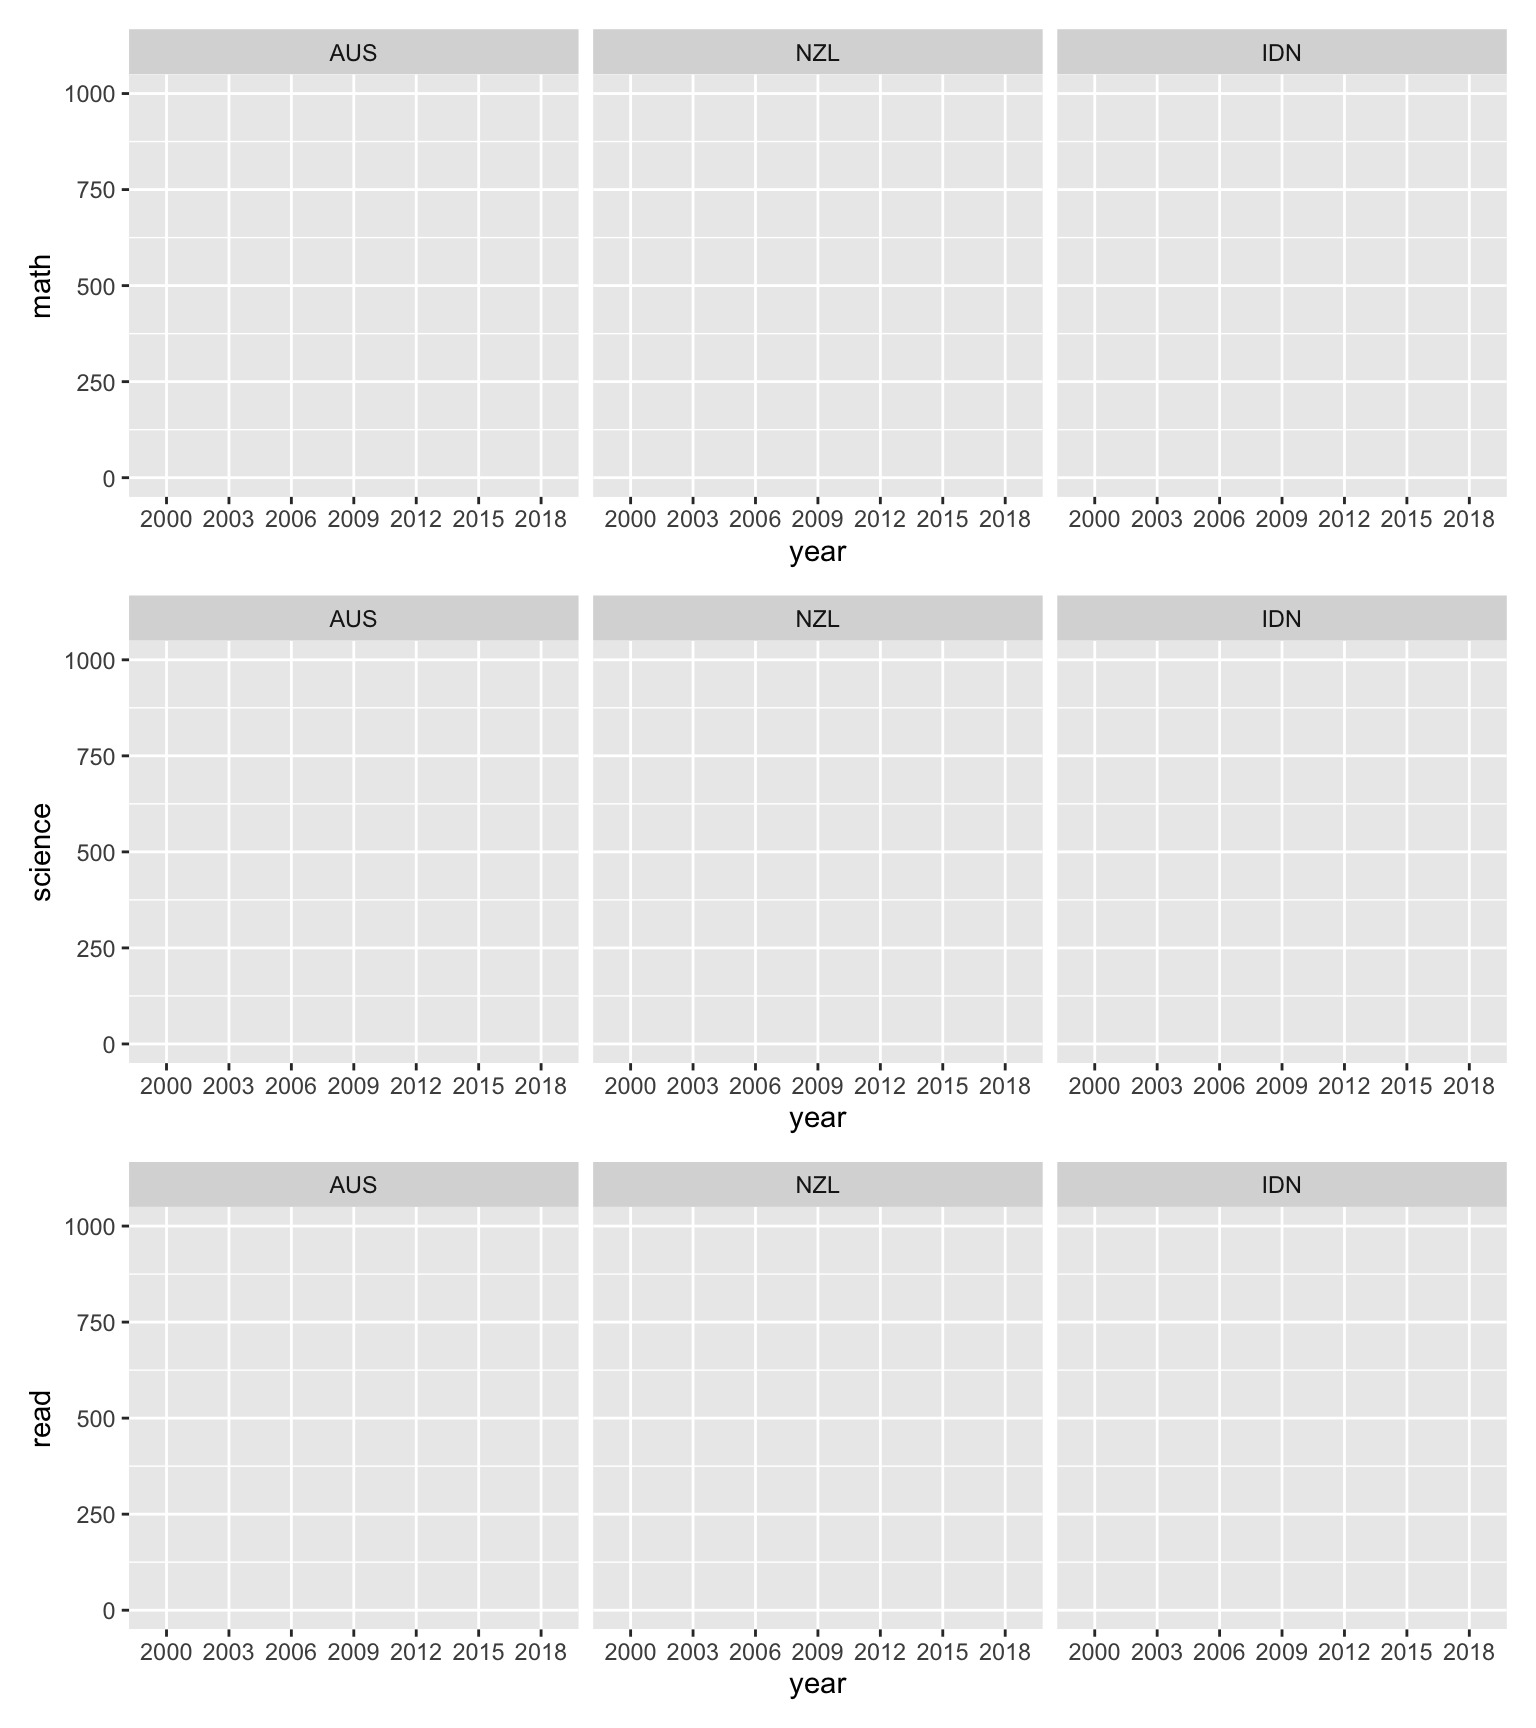
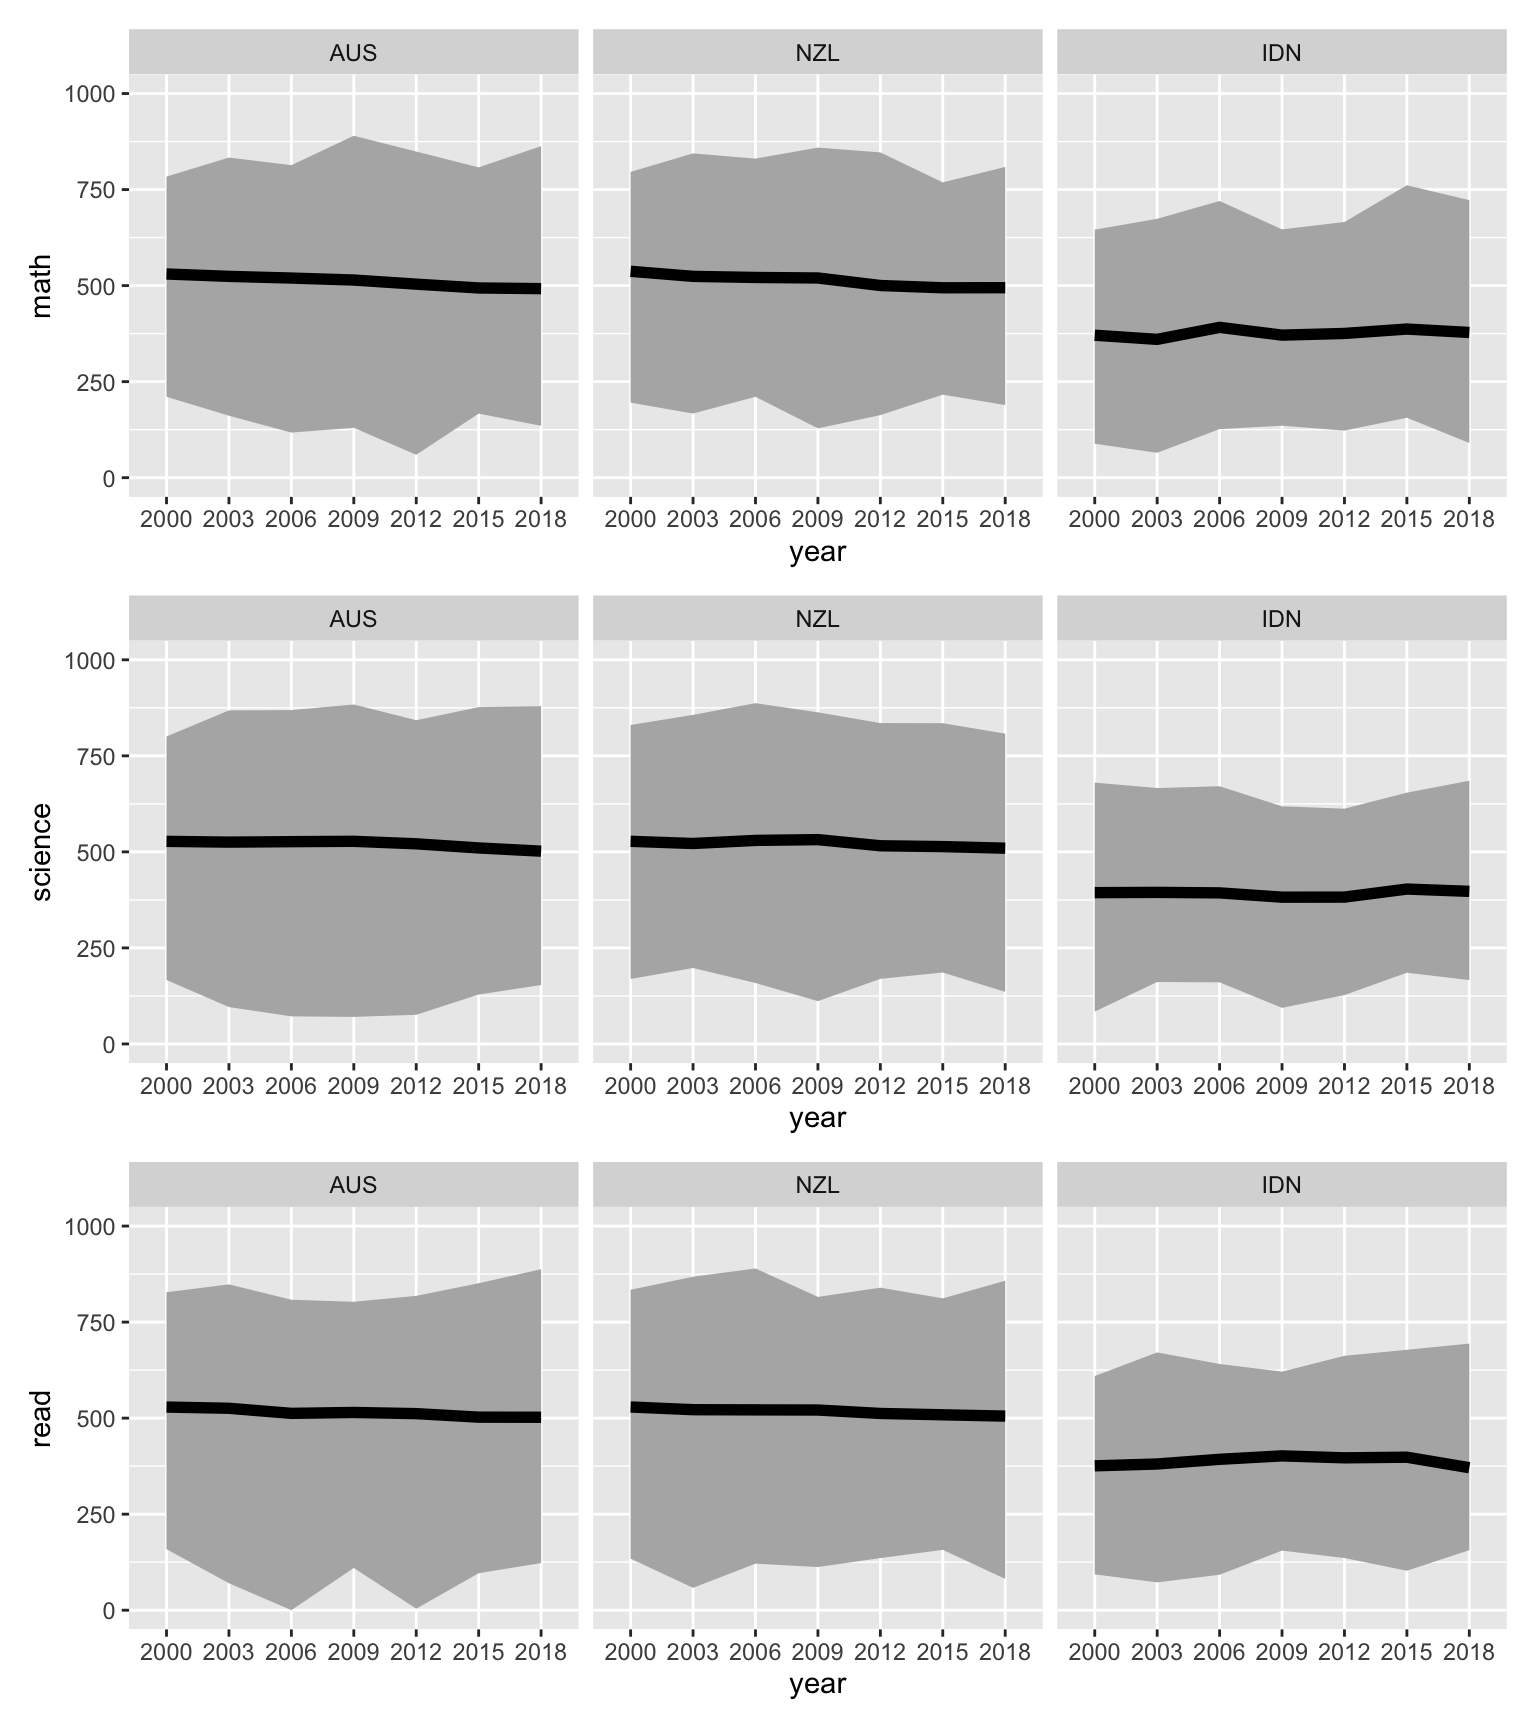
Built site for learningtower: 0.0.0.9000@eb82f4a

diff --git a/articles/exploring_time.html b/articles/exploring_time.html
@@ -85,7 +85,7 @@
       <h1 data-toc-skip>Exploring temporal trends</h1>
                         <h4 class="author">Vignette Author</h4>
             
-            <h4 class="date">2020-05-24</h4>
+            <h4 class="date">2020-05-28</h4>
       
       
       <div class="hidden name"><code>exploring_time.Rmd</code></div>
@@ -100,6 +100,7 @@
 <div class="sourceCode" id="cb1"><html><body><pre class="r"><span class="fu"><a href="https://rdrr.io/r/base/library.html">library</a></span>(<span class="no">learningtower</span>)
 <span class="fu"><a href="https://rdrr.io/r/base/library.html">library</a></span>(<span class="no">tidyverse</span>)
 <span class="fu"><a href="https://rdrr.io/r/base/library.html">library</a></span>(<span class="no">patchwork</span>)
+<span class="fu"><a href="https://rdrr.io/r/base/library.html">library</a></span>(<span class="no">brolgar</span>)
 
 <span class="fu"><a href="https://rdrr.io/r/utils/data.html">data</a></span>(<span class="no">student</span>)</pre></body></html></div>
 </div>
@@ -122,19 +123,19 @@
             <span class="kw">read_min</span> <span class="kw">=</span> <span class="fu"><a href="https://rdrr.io/r/base/Extremes.html">min</a></span>(<span class="no">read</span>, <span class="kw">na.rm</span><span class="kw">=</span><span class="fl">TRUE</span>),
             <span class="kw">science_min</span> <span class="kw">=</span> <span class="fu"><a href="https://rdrr.io/r/base/Extremes.html">min</a></span>(<span class="no">science</span>, <span class="kw">na.rm</span><span class="kw">=</span><span class="fl">TRUE</span>)) <span class="kw">%&gt;%</span>
   <span class="fu">mutate</span>(<span class="kw">country</span><span class="kw">=</span><span class="fu"><a href="https://rdrr.io/r/base/factor.html">factor</a></span>(<span class="no">country</span>, <span class="kw">levels</span><span class="kw">=</span><span class="fu"><a href="https://rdrr.io/r/base/c.html">c</a></span>(<span class="st">"AUS"</span>, <span class="st">"NZL"</span>, <span class="st">"IDN"</span>)))
-<span class="no">p1</span> <span class="kw">&lt;-</span> <span class="fu">ggplot</span>(<span class="no">student_sumry</span>) +
+<span class="no">p1</span> <span class="kw">&lt;-</span> <span class="fu">ggplot</span>(<span class="no">student_sumry</span>, <span class="fu">aes</span>(<span class="kw">group</span> <span class="kw">=</span> <span class="no">country</span>)) +
     <span class="fu">geom_ribbon</span>(<span class="fu">aes</span>(<span class="kw">x</span><span class="kw">=</span><span class="no">year</span>, <span class="kw">ymin</span><span class="kw">=</span><span class="no">math_min</span>, <span class="kw">ymax</span><span class="kw">=</span><span class="no">math_max</span>), <span class="kw">fill</span><span class="kw">=</span><span class="st">"grey70"</span>) +
     <span class="fu">geom_line</span>(<span class="fu">aes</span>(<span class="kw">x</span><span class="kw">=</span><span class="no">year</span>, <span class="kw">y</span><span class="kw">=</span><span class="no">math_mean</span>), <span class="kw">colour</span><span class="kw">=</span><span class="st">"black"</span>, <span class="kw">size</span><span class="kw">=</span><span class="fl">2</span>) +
     <span class="fu">facet_wrap</span>(~<span class="no">country</span>) +
     <span class="fu"><a href="https://rdrr.io/r/graphics/plot.window.html">ylim</a></span>(<span class="fu"><a href="https://rdrr.io/r/base/c.html">c</a></span>(<span class="fl">0</span>,<span class="fl">1000</span>)) + <span class="fu">ylab</span>(<span class="st">"math"</span>)
-<span class="no">p2</span> <span class="kw">&lt;-</span> <span class="fu">ggplot</span>(<span class="no">student_sumry</span>) +
+<span class="no">p2</span> <span class="kw">&lt;-</span> <span class="fu">ggplot</span>(<span class="no">student_sumry</span>, <span class="fu">aes</span>(<span class="kw">group</span> <span class="kw">=</span> <span class="no">country</span>)) +
     <span class="fu">geom_ribbon</span>(<span class="fu">aes</span>(<span class="kw">x</span><span class="kw">=</span><span class="no">year</span>, <span class="kw">ymin</span><span class="kw">=</span><span class="no">science_min</span>, <span class="kw">ymax</span><span class="kw">=</span><span class="no">science_max</span>), <span class="kw">fill</span><span class="kw">=</span><span class="st">"grey70"</span>) +
-    <span class="fu">geom_line</span>(<span class="fu">aes</span>(<span class="kw">x</span><span class="kw">=</span><span class="no">year</span>, <span class="kw">y</span><span class="kw">=</span><span class="no">science_mean</span>), <span class="kw">colour</span><span class="kw">=</span><span class="st">"black"</span>, <span class="kw">size</span><span class="kw">=</span><span class="fl">2</span>) +
+    <span class="fu">geom_line</span>(<span class="fu">aes</span>(<span class="kw">x</span><span class="kw">=</span><span class="no">year</span>, <span class="kw">group</span> <span class="kw">=</span> <span class="no">country</span>, <span class="kw">y</span><span class="kw">=</span><span class="no">science_mean</span>), <span class="kw">colour</span><span class="kw">=</span><span class="st">"black"</span>, <span class="kw">size</span><span class="kw">=</span><span class="fl">2</span>) +
     <span class="fu">facet_wrap</span>(~<span class="no">country</span>) +
     <span class="fu"><a href="https://rdrr.io/r/graphics/plot.window.html">ylim</a></span>(<span class="fu"><a href="https://rdrr.io/r/base/c.html">c</a></span>(<span class="fl">0</span>,<span class="fl">1000</span>)) + <span class="fu">ylab</span>(<span class="st">"science"</span>)
-<span class="no">p3</span> <span class="kw">&lt;-</span> <span class="fu">ggplot</span>(<span class="no">student_sumry</span>) +
+<span class="no">p3</span> <span class="kw">&lt;-</span> <span class="fu">ggplot</span>(<span class="no">student_sumry</span>, <span class="fu">aes</span>(<span class="kw">group</span> <span class="kw">=</span> <span class="no">country</span>)) +
     <span class="fu">geom_ribbon</span>(<span class="fu">aes</span>(<span class="kw">x</span><span class="kw">=</span><span class="no">year</span>, <span class="kw">ymin</span><span class="kw">=</span><span class="no">read_min</span>, <span class="kw">ymax</span><span class="kw">=</span><span class="no">read_max</span>), <span class="kw">fill</span><span class="kw">=</span><span class="st">"grey70"</span>) +
-    <span class="fu">geom_line</span>(<span class="fu">aes</span>(<span class="kw">x</span><span class="kw">=</span><span class="no">year</span>, <span class="kw">y</span><span class="kw">=</span><span class="no">read_mean</span>), <span class="kw">colour</span><span class="kw">=</span><span class="st">"black"</span>, <span class="kw">size</span><span class="kw">=</span><span class="fl">2</span>) +
+    <span class="fu">geom_line</span>(<span class="fu">aes</span>(<span class="kw">x</span><span class="kw">=</span><span class="no">year</span>, <span class="kw">group</span> <span class="kw">=</span> <span class="no">country</span>, <span class="kw">y</span><span class="kw">=</span><span class="no">read_mean</span>), <span class="kw">colour</span><span class="kw">=</span><span class="st">"black"</span>, <span class="kw">size</span><span class="kw">=</span><span class="fl">2</span>) +
     <span class="fu">facet_wrap</span>(~<span class="no">country</span>) +
     <span class="fu"><a href="https://rdrr.io/r/graphics/plot.window.html">ylim</a></span>(<span class="fu"><a href="https://rdrr.io/r/base/c.html">c</a></span>(<span class="fl">0</span>,<span class="fl">1000</span>)) + <span class="fu">ylab</span>(<span class="st">"read"</span>)
 
@@ -164,17 +165,18 @@
 <span class="fu"><a href="https://rdrr.io/r/base/library.html">library</a></span>(<span class="no">tsibble</span>)
 <span class="no">student_means</span> <span class="kw">&lt;-</span> <span class="no">student</span> <span class="kw">%&gt;%</span>
   <span class="fu">group_by</span>(<span class="no">year</span>, <span class="no">country</span>) <span class="kw">%&gt;%</span>
-  <span class="fu">summarise</span>(<span class="kw">math</span> <span class="kw">=</span> <span class="fu"><a href="https://rdrr.io/r/stats/weighted.mean.html">weighted.mean</a></span>(<span class="no">math</span>, <span class="no">stu_wgt</span>, <span class="kw">na.rm</span><span class="kw">=</span><span class="fl">TRUE</span>))
+  <span class="fu">summarise</span>(<span class="kw">math</span> <span class="kw">=</span> <span class="fu"><a href="https://rdrr.io/r/stats/weighted.mean.html">weighted.mean</a></span>(<span class="no">math</span>, <span class="no">stu_wgt</span>, <span class="kw">na.rm</span><span class="kw">=</span><span class="fl">TRUE</span>)) <span class="kw">%&gt;%</span>
+  <span class="fu">ungroup</span>()
 
-<span class="no">student_means</span> <span class="kw">&lt;-</span> <span class="fu">as_tsibble</span>(<span class="no">student_means</span>,
+<span class="no">student_means</span> <span class="kw">&lt;-</span> <span class="fu"><a href="https://rdrr.io/pkg/brolgar/man/reexports.html">as_tsibble</a></span>(<span class="no">student_means</span> <span class="kw">%&gt;%</span> <span class="fu">mutate</span>(<span class="kw">year</span> <span class="kw">=</span> <span class="no">year</span> <span class="kw">%&gt;%</span> <span class="no">as.character</span> <span class="kw">%&gt;%</span> <span class="no">as.integer</span>),
                       <span class="kw">key</span> <span class="kw">=</span> <span class="no">country</span>,
                       <span class="kw">index</span> <span class="kw">=</span> <span class="no">year</span>)
-<span class="no">stu_features</span> <span class="kw">&lt;-</span> <span class="no">student_means</span> <span class="kw">%&gt;%</span> <span class="fu">features</span>(<span class="no">math</span>, <span class="no">feat_brolgar</span>)
+<span class="no">stu_features</span> <span class="kw">&lt;-</span> <span class="no">student_means</span> <span class="kw">%&gt;%</span> <span class="fu"><a href="https://rdrr.io/pkg/brolgar/man/reexports.html">features</a></span>(<span class="no">math</span>, <span class="no">feat_brolgar</span>)
 
 <span class="no">stu_features</span>
 
 <span class="no">stu_monotone</span> <span class="kw">=</span> <span class="no">student_means</span> <span class="kw">%&gt;%</span>
-  <span class="fu">features</span>(<span class="no">math</span>, <span class="no">feat_monotonic</span>)
+  <span class="fu"><a href="https://rdrr.io/pkg/brolgar/man/reexports.html">features</a></span>(<span class="no">math</span>, <span class="no">feat_monotonic</span>)
 
 
 <span class="no">p1</span> <span class="kw">=</span> <span class="no">stu_monotone</span> <span class="kw">%&gt;%</span>
@@ -198,7 +200,7 @@
   <span class="kw pkg">gghighlight</span><span class="kw ns">::</span><span class="fu">gghighlight</span>(<span class="no">decrease</span>) +
   <span class="fu">labs</span>(<span class="kw">x</span> <span class="kw">=</span> <span class="st">"Year"</span>,
        <span class="kw">y</span> <span class="kw">=</span> <span class="st">"Weighted mean Maths scores"</span>,
-       <span class="kw">title</span> <span class="kw">=</span> <span class="st">"Highlight decreasing countries"</span>)
+       <span class="kw">title</span> <span class="kw">=</span> <span class="st">"Highlight monotone decreasing countries"</span>)
 
 <span class="no">p1</span> / <span class="no">p2</span></pre></body></html></div>
 </div>

diff --git a/articles/visualise_distribution.html b/articles/visualise_distribution.html
@@ -85,7 +85,7 @@
       <h1 data-toc-skip>Visualise differential distribution between countries</h1>
                         <h4 class="author">Vignette Author</h4>
             
-            <h4 class="date">2020-05-24</h4>
+            <h4 class="date">2020-05-28</h4>
       
       
       <div class="hidden name"><code>visualise_distribution.Rmd</code></div>
@@ -289,21 +289,21 @@
 ## [10] tibble_3.0.1             ggplot2_3.3.0            tidyverse_1.3.0         
 ## 
 ## loaded via a namespace (and not attached):
-##  [1] tidyselect_1.1.0   xfun_0.14          haven_2.2.0        lattice_0.20-41   
+##  [1] tidyselect_1.1.0   xfun_0.14          haven_2.3.0        lattice_0.20-41   
 ##  [5] colorspace_1.4-1   vctrs_0.3.0        generics_0.0.2     htmltools_0.4.0   
-##  [9] yaml_2.2.1         utf8_1.1.4         rlang_0.4.6        pkgdown_1.5.1.9000
-## [13] pillar_1.4.4       withr_2.2.0        glue_1.4.1         DBI_1.1.0         
-## [17] RColorBrewer_1.1-2 dbplyr_1.4.3       modelr_0.1.8       readxl_1.3.1      
-## [21] lifecycle_0.2.0    munsell_0.5.0      gtable_0.3.0       cellranger_1.1.0  
-## [25] rvest_0.3.5        memoise_1.1.0      evaluate_0.14      labeling_0.3      
-## [29] knitr_1.28         fansi_0.4.1        Rcpp_1.0.4.6       backports_1.1.7   
-## [33] scales_1.1.1       desc_1.2.0         jsonlite_1.6.1     farver_2.0.3      
-## [37] fs_1.4.1           hms_0.5.3          digest_0.6.25      stringi_1.4.6     
-## [41] grid_4.0.0         rprojroot_1.3-2    cli_2.0.2          tools_4.0.0       
-## [45] magrittr_1.5       crayon_1.3.4       pkgconfig_2.0.3    MASS_7.3-51.5     
-## [49] ellipsis_0.3.1     xml2_1.3.2         reprex_0.3.0       lubridate_1.7.8   
-## [53] assertthat_0.2.1   rmarkdown_2.1      httr_1.4.1         rstudioapi_0.11   
-## [57] R6_2.4.1           nlme_3.1-147       compiler_4.0.0</code></pre>
+##  [9] yaml_2.2.1         utf8_1.1.4         blob_1.2.1         rlang_0.4.6       
+## [13] pkgdown_1.5.1.9000 pillar_1.4.4       withr_2.2.0        glue_1.4.1        
+## [17] DBI_1.1.0          RColorBrewer_1.1-2 dbplyr_1.4.4       modelr_0.1.8      
+## [21] readxl_1.3.1       lifecycle_0.2.0    munsell_0.5.0      gtable_0.3.0      
+## [25] cellranger_1.1.0   rvest_0.3.5        memoise_1.1.0      evaluate_0.14     
+## [29] labeling_0.3       knitr_1.28         fansi_0.4.1        Rcpp_1.0.4.6      
+## [33] backports_1.1.7    scales_1.1.1       desc_1.2.0         jsonlite_1.6.1    
+## [37] farver_2.0.3       fs_1.4.1           hms_0.5.3          digest_0.6.25     
+## [41] stringi_1.4.6      grid_4.0.0         rprojroot_1.3-2    cli_2.0.2         
+## [45] tools_4.0.0        magrittr_1.5       crayon_1.3.4       pkgconfig_2.0.3   
+## [49] MASS_7.3-51.5      ellipsis_0.3.1     xml2_1.3.2         reprex_0.3.0      
+## [53] lubridate_1.7.8    assertthat_0.2.1   rmarkdown_2.1      httr_1.4.1        
+## [57] rstudioapi_0.11    R6_2.4.1           nlme_3.1-147       compiler_4.0.0</code></pre>
 </div>
   </div>
 
